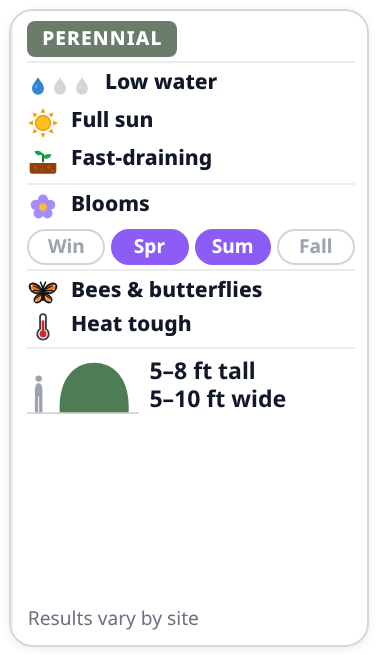
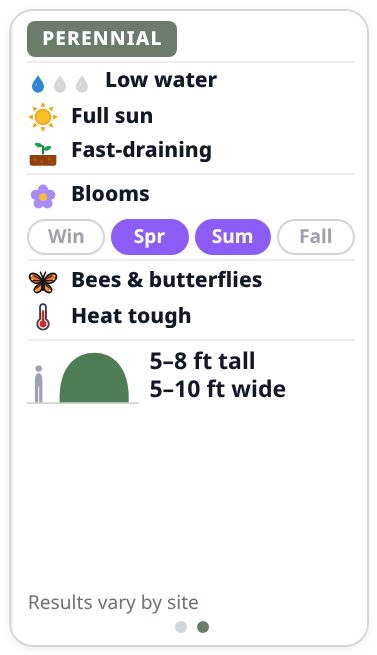
Plant basics: height-matched back layout via ResizeObserver, simple vine, small-tree/large-shrub silhouette

diff --git a/shop.js b/shop.js
@@ -168,17 +168,22 @@
   function plantShape(x, cx, base, gw, gh) {
     var G = "#4d7c55", r = gw / 2, f = x.shape || x.form || "Shrub", P = function (d) { return '<path fill="' + G + '" d="' + d + '"/>'; }, L = function (d, w) { return '<path fill="none" stroke="' + G + '" stroke-width="' + (w || 1.4) + '" stroke-linecap="round" d="' + d + '"/>'; }, top = base - gh, o = "";
     if (false) return '<rect x="' + (cx - 1.2) + '" y="' + (base - gh * .1) + '" width="2.4" height="' + (gh * .1) + '" fill="' + G + '"/>' + P("M" + cx + " " + top + "C" + (cx + r * .35) + " " + (top + gh * .3) + " " + (cx + r * .55) + " " + (base - gh * .35) + " " + (cx + r * .4) + " " + (base - gh * .1) + "H" + (cx - r * .4) + "C" + (cx - r * .55) + " " + (base - gh * .35) + " " + (cx - r * .35) + " " + (top + gh * .3) + " " + cx + " " + top + "z");
-    if (f === "Tree" || f === "Small tree") { var cw = Math.max(gw, gh * 1.5) / 2, ch = gh * .62, ctop = top, cb = ctop + ch, tk = Math.max(2.4, cw * .12);   // coast-live-oak: short trunk, branching, broad lumpy canopy
+    if (f === "Small tree" || f === "SmallTree") { var sw = Math.max(gw, gh * 1.2) / 2, sch = gh * .72, sb = top + sch;   // small tree / large shrub: 2-3 short stems, low rounded lumpy canopy
+      [-.28, 0, .28].forEach(function (k) { o += P("M" + (cx + k * sw * .25 - 1.1) + " " + base + "L" + (cx + k * sw * .7 - .9) + " " + (sb - sch * .2) + "h1.8L" + (cx + k * sw * .25 + 1.1) + " " + base + "z"); });
+      [[-.5, .55, .5, .42], [.5, .55, .5, .42], [0, .38, .6, .45], [-.2, .62, .55, .38], [.25, .62, .55, .38]].forEach(function (l) { o += '<ellipse cx="' + (cx + l[0] * sw) + '" cy="' + (top + l[1] * sch) + '" rx="' + (l[2] * sw) + '" ry="' + (l[3] * sch) + '" fill="' + G + '"/>'; });
+      return o; }
+    if (f === "Tree") { var cw = Math.max(gw, gh * 1.5) / 2, ch = gh * .62, ctop = top, cb = ctop + ch, tk = Math.max(2.4, cw * .12);   // coast-live-oak: short trunk, branching, broad lumpy canopy
       o += P("M" + (cx - tk) + " " + base + "L" + (cx - tk * .7) + " " + (cb - ch * .05) + "L" + (cx - cw * .55) + " " + (cb - ch * .25) + "L" + (cx - cw * .5) + " " + (cb - ch * .15) + "L" + (cx - tk * .2) + " " + (cb + ch * .1) + "L" + (cx + tk * .2) + " " + (cb + ch * .1) + "L" + (cx + cw * .5) + " " + (cb - ch * .15) + "L" + (cx + cw * .55) + " " + (cb - ch * .25) + "L" + (cx + tk * .7) + " " + (cb - ch * .05) + "L" + (cx + tk) + " " + base + "z");
       [[-.62, .62, .4, .38], [.62, .62, .4, .38], [-.3, .4, .45, .45], [.3, .38, .45, .45], [0, .3, .4, .42], [-.85, .72, .2, .25], [.85, .72, .2, .25], [0, .65, .7, .3]].forEach(function (l) { o += '<ellipse cx="' + (cx + l[0] * cw) + '" cy="' + (ctop + l[1] * ch) + '" rx="' + (l[2] * cw) + '" ry="' + (l[3] * ch) + '" fill="' + G + '"/>'; });
       return o; }
     if (f === "Grass") { for (var i = -4; i <= 4; i++) { var tx = cx + i * r * .26, ty = top + Math.abs(i) * gh * .1 + gh * .05; o += L("M" + (cx + i * .6) + " " + base + "Q" + (cx + i * r * .1) + " " + (base - gh * .6) + " " + tx + " " + ty, 2.2); }
       [-.45, .05, .5].forEach(function (k) { var sx = cx + k * r * .8; o += L("M" + cx + " " + base + "Q" + sx + " " + (base - gh * .5) + " " + (sx + k * 2) + " " + (top - 1), .8) + '<ellipse cx="' + (sx + k * 2) + '" cy="' + top + '" rx="1.1" ry="2.4" fill="' + G + '"/>'; });
       return P("M" + (cx - r * .3) + " " + base + "Q" + cx + " " + (base - gh * .3) + " " + (cx + r * .3) + " " + base + "z") + o; }
-    if (f === "Vine") { var vh = gh * .85, vt = base - vh, vw = Math.max(30, Math.min(gw, vh * .9)), pp = cx;   // simplified leafy vine on a post (not strictly to scale)
-      o += '<rect x="' + (pp - 1.3) + '" y="' + (vt - 2) + '" width="2.6" height="' + (vh + 2) + '" fill="#a8a29e"/><rect x="' + (pp - vw * .45) + '" y="' + (vt + vh * .12) + '" width="' + (vw * .9) + '" height="1.6" fill="#a8a29e"/>';
-      for (var q = 0; q < 7; q++) { var ly = base - vh * (q + .6) / 7.2, sx = (q % 2 ? 1 : -1), lw = vw * (.42 - q * .02); o += '<ellipse cx="' + (pp + sx * lw * .5) + '" cy="' + ly + '" rx="' + lw * .62 + '" ry="' + Math.max(2.8, vh * .11) + '" fill="' + G + '"/>'; }
-      o += P("M" + (pp - vw * .3) + " " + base + "Q" + pp + " " + (base - vh * .35) + " " + (pp + vw * .3) + " " + base + "z");
+    if (f === "Vine") { var vh = gh * .85, vt = base - vh, pp = cx, amp = Math.max(4, Math.min(gw * .25, 8));   // simple: post + one twining stem + a few leaves
+      o += '<rect x="' + (pp - 1.4) + '" y="' + vt + '" width="2.8" height="' + vh + '" rx="1" fill="#a8a29e"/>';
+      o += L("M" + pp + " " + base + "C" + (pp + amp) + " " + (base - vh * .2) + " " + (pp - amp) + " " + (base - vh * .4) + " " + pp + " " + (base - vh * .55) + "S" + (pp + amp) + " " + (base - vh * .85) + " " + (pp - 1) + " " + (vt + 1), 1.8);
+      [[.18, 1], [.42, -1], [.66, 1], [.88, -1]].forEach(function (q) { var ly = base - vh * q[0], lx = pp + q[1] * amp * .9, sz = Math.max(3, amp * .7);
+        o += P("M" + (lx - q[1] * sz * .3) + " " + ly + "Q" + (lx + q[1] * sz * .6) + " " + (ly - sz * .9) + " " + (lx + q[1] * sz * 1.4) + " " + (ly - sz * .2) + "Q" + (lx + q[1] * sz * .6) + " " + (ly + sz * .5) + " " + (lx - q[1] * sz * .3) + " " + ly + "z"); });
       return o; }
     if (f === "Succulent") { for (var j = -5; j <= 5; j++) { var ang = j / 5 * 1.3, len = gh * .62 * (1 - Math.abs(j) * .05); o += P("M" + (cx - 2.2) + " " + base + "L" + (cx + Math.sin(ang) * Math.max(len, r * .9)) + " " + (base - Math.cos(ang) * len) + "L" + (cx + 2.2) + " " + base + "z"); }
       return o + L("M" + cx + " " + (base - gh * .3) + "V" + (top + gh * .2), 2) + P("M" + (cx - 2.4) + " " + (top + gh * .3) + "Q" + cx + " " + (top - 1) + " " + (cx + 2.4) + " " + (top + gh * .3) + "z"); }
@@ -247,6 +252,8 @@
     bp.pane.addEventListener("keydown", function (e) { if (e.key === "Enter" || e.key === " " || e.key === "Escape") { e.preventDefault(); to(0); if (ph0) setTimeout(function () { ph0.focus({ preventScroll: true }); }, 350); } });
     var t = null; track.addEventListener("scroll", function () { clearTimeout(t); t = setTimeout(function () { var on = onBack(); card.classList.toggle("showing-basics", on); front.setAttribute("aria-hidden", on ? "true" : "false"); bp.pane.setAttribute("aria-hidden", on ? "false" : "true"); }, 80); }, { passive: true });
     bp.pane.setAttribute("aria-hidden", "true");
+    function fit() { var h = bp.pane.clientHeight; if (!h) return; bp.pane.classList.toggle("tall", h >= 440); bp.pane.classList.toggle("compact", h < 440); }
+    if ("ResizeObserver" in window) new ResizeObserver(fit).observe(bp.pane); else { setTimeout(fit, 0); addEventListener("resize", fit); }
     if (!peeked && card.querySelector(".add, .soon-pill")) { peeked = true; try { sessionStorage.setItem("ienn-peek", "1"); } catch (e) {}   // one gentle peek per session, first card only
       if (!(window.matchMedia && matchMedia("(prefers-reduced-motion: reduce)").matches)) setTimeout(function () { if (!card.isConnected) return; track.scrollTo({ left: 46, behavior: "smooth" }); setTimeout(function () { track.scrollTo({ left: 0, behavior: "smooth" }); }, 650); }, 1400); }
     return card;

diff --git a/shop.css b/shop.css
@@ -175,7 +175,7 @@ html.ty-open, html.ty-open body { overflow:hidden; }
 .card-track { display:flex; overflow-x:auto; scroll-snap-type:x mandatory; overscroll-behavior-x:contain; scrollbar-width:none; -webkit-overflow-scrolling:touch; height:100%; }
 .card-track::-webkit-scrollbar { display:none; }
 .pane-front { flex:0 0 100%; scroll-snap-align:start; display:flex; flex-direction:column; min-width:0; }
-.pane-basics { flex:0 0 100%; scroll-snap-align:start; position:relative; min-width:0; background:#fff; border-left:1px solid #eee; container-type:size; }
+.pane-basics { flex:0 0 100%; scroll-snap-align:start; position:relative; min-width:0; background:#fff; border-left:1px solid #eee;  }
 @media (prefers-reduced-motion:no-preference) { .card-track { scroll-behavior:smooth; } }
 .basics-in { position:absolute; inset:0; overflow-y:auto; padding:0.5rem; display:flex; flex-direction:column; gap:0.4rem; color:#111827; }
 .form-ribbon { display:inline-block; white-space:nowrap; background:var(--sage); color:#fff; font-weight:800; font-size:0.66rem; letter-spacing:.06em; text-transform:uppercase; padding:0.15rem 0.55rem; border-radius:4px; }
@@ -200,16 +200,19 @@ html.ty-open, html.ty-open body { overflow:hidden; }
 .size-art { width:72px; height:38px; flex:none; }
 .size-v { display:flex; flex-direction:column; font-size:0.74rem; color:#111827; line-height:1.2; }
 .basics-fine { margin:0; margin-top:auto; font-size:0.6rem; color:#6b7280; }
-@container (min-height:440px) {
-  .basics-in { gap:0.5rem; padding:0.65rem 0.55rem; }
-  .basics-tag { font-size:0.9rem; }
-  .fchip { min-height:34px; padding:0.25rem 0.45rem; } .fchip-t { font-size:0.82rem; }
-  .bi { width:24px; height:24px; } .water .bi { width:16px; height:22px; }
-  .sp { font-size:0.74rem; padding:0.25rem 0; }
-  .size-art { width:100px; height:54px; } .size-v { font-size:0.86rem; }
-}
+.pane-basics.tall .basics-in { gap:0.5rem; padding:0.65rem 0.55rem; }
+.pane-basics.tall .basics-tag { font-size:0.9rem; }
+.pane-basics.tall .fchip { min-height:34px; padding:0.25rem 0.45rem; }
+.pane-basics.tall .fchip-t { font-size:0.82rem; }
+.pane-basics.tall .bi { width:24px; height:24px; }
+.pane-basics.tall .water .bi { width:16px; height:22px; }
+.pane-basics.tall .sp { font-size:0.74rem; padding:0.25rem 0; }
+.pane-basics.tall .size-art { width:100px; height:54px; }
+.pane-basics.tall .size-v { font-size:0.86rem; }
 .basics-in { gap:0.3rem; } .fchip { min-height:22px; padding:0.1rem 0.35rem; } .size-v { white-space:nowrap; } .size-art { width:60px; height:34px; }
-@container (min-height:440px) { .basics-in { gap:0.5rem; } .fchip { min-height:34px; padding:0.25rem 0.45rem; } .size-art { width:90px; height:50px; } }
+.pane-basics.tall .basics-in { gap:0.5rem; }
+.pane-basics.tall .fchip { min-height:34px; padding:0.25rem 0.45rem; }
+.pane-basics.tall .size-art { width:90px; height:50px; }
 
 /* v5: seamless back (no chip bubbles), section dividers, dots, flippable photo */
 .fchip, .care .water, .care .sun, .care .soil { background:none; border:0; border-radius:0; padding:0.05rem 0; min-height:0; }
@@ -224,9 +227,16 @@ html.ty-open, html.ty-open body { overflow:hidden; }
 .ph.flippable:focus-visible, .pane-basics:focus-visible { outline:3px solid var(--sage); outline-offset:-3px; }
 .pane-basics { cursor:pointer; }
 .size-art { width:84px; height:44px; }
-@container (min-height:440px) { .fchip { min-height:30px; padding:0.1rem 0; } .care, .feats { gap:0.3rem; } .size-art { width:110px; height:58px; } }
-@container (min-height:440px) { .size-art { width:92px; height:48px; } .size-v { font-size:0.8rem; } }
-@container (max-height:439px) { .care, .seasons, .feats, .size { padding-top:0.2rem; } .basics-in { gap:0.22rem; padding:0.4rem 0.5rem; } .size-art { width:66px; height:35px; } .pane-basics .flip-dots { display:none; } .basics-tag { font-size:0.74rem; } }
+.pane-basics.tall .fchip { min-height:30px; padding:0.1rem 0; }
+.pane-basics.tall .care,.pane-basics.tall .feats { gap:0.3rem; }
+.pane-basics.tall .size-art { width:110px; height:58px; }
+.pane-basics.tall .size-art { width:92px; height:48px; }
+.pane-basics.tall .size-v { font-size:0.8rem; }
+.pane-basics.compact .care,.pane-basics.compact .seasons,.pane-basics.compact .feats,.pane-basics.compact .size { padding-top:0.2rem; }
+.pane-basics.compact .basics-in { gap:0.22rem; padding:0.4rem 0.5rem; }
+.pane-basics.compact .size-art { width:66px; height:35px; }
+.pane-basics.compact .pane-basics .flip-dots { display:none; }
+.pane-basics.compact .basics-tag { font-size:0.74rem; }
 
 /* v7: calm bloom row */
 .seasons { display:flex; flex-direction:column; gap:0.2rem; }
@@ -238,5 +248,16 @@ html.ty-open, html.ty-open body { overflow:hidden; }
 .size { gap:0.3rem; padding-right:0.35rem; min-width:0; }
 .size-art { width:64px !important; height:34px !important; flex:0 0 auto; }
 .size-v { font-size:0.72rem !important; min-width:0; }
-@container (min-height:440px) { .size-art { width:76px !important; height:40px !important; } .size-v { font-size:0.76rem !important; } }
-@container (max-height:439px) { .basics-in { gap:0.15rem; padding:0.35rem 0.45rem; } .fchip { min-height:0; padding:0; } .fchip-t { font-size:0.66rem; } .bi { width:16px; height:16px; } .water .bi { width:11px; height:15px; } .care, .feats { gap:0.1rem; } .care, .seasons, .feats, .size { padding-top:0.15rem; } .seasons .sp { font-size:0.6rem; padding:0.05rem 0; } .size-art { width:56px !important; height:30px !important; } .form-ribbon { font-size:0.6rem; padding:0.1rem 0.45rem; } }
+.pane-basics.tall .size-art { width:76px !important; height:40px !important; }
+.pane-basics.tall .size-v { font-size:0.76rem !important; }
+.pane-basics.compact .basics-in { gap:0.15rem; padding:0.35rem 0.45rem; }
+.pane-basics.compact .fchip { min-height:0; padding:0; }
+.pane-basics.compact .fchip-t { font-size:0.66rem; }
+.pane-basics.compact .bi { width:16px; height:16px; }
+.pane-basics.compact .water .bi { width:11px; height:15px; }
+.pane-basics.compact .care,.pane-basics.compact .feats { gap:0.1rem; }
+.pane-basics.compact .care,.pane-basics.compact .seasons,.pane-basics.compact .feats,.pane-basics.compact .size { padding-top:0.15rem; }
+.pane-basics.compact .seasons .sp { font-size:0.6rem; padding:0.05rem 0; }
+.pane-basics.compact .size-art { width:56px !important; height:30px !important; }
+.pane-basics.compact .form-ribbon { font-size:0.6rem; padding:0.1rem 0.45rem; }
+.pane-basics.tall .basics-in { justify-content:space-evenly; } .pane-basics.tall .basics-fine { margin-top:0; }

diff --git a/data/plant-basics.js b/data/plant-basics.js
@@ -29,7 +29,7 @@ var IENN_BASICS = {
     desc:"Monkeyflowers bloom heavily in spring with tubular flowers hummingbirds visit. Afternoon shade and little summer water keep them happy." },
   Penstemon: { water:1, sun:["full"], soil:"Fast-draining", bloom:["Sp","Su"], wild:["pollinators","hummingbirds","containers"], h:[2,4], w:[1,3], ie:true, genusLevel:true,
     desc:"Upright spikes of tubular flowers that hummingbirds find fast. Needs good drainage; avoid overwatering." },
-  Rhus: { water:1, sun:["full","part"], soil:"Adaptable", bloom:["W","Sp"], wild:["pollinators","birds"], h:[6,10], w:[6,10], ie:true,
+  Rhus: { shape:"SmallTree", water:1, sun:["full","part"], soil:"Adaptable", bloom:["W","Sp"], wild:["pollinators","birds"], h:[6,10], w:[6,10], ie:true,
     desc:"A sturdy evergreen shrub with glossy leaves and small pink-white flowers. Useful as a hedge or screen once established." },
   Achillea: { water:2, sun:["full","part"], soil:"Adaptable", bloom:["Sp","Su"], wild:["pollinators","fragrant","containers"], h:[1,3], w:[1,3], ie:true,
     desc:"Feathery, aromatic leaves with flat clusters of small flowers. Spreads into a soft patch and can even be mowed as a lawn alternative." },
@@ -45,7 +45,7 @@ var IENN_BASICS = {
     desc:"Bright red-orange tubular flowers in late summer and fall, just when hummingbirds need them most. Cut back in winter to keep it tidy." },
   Hesperocyparis: { water:1, sun:["full"], soil:"Adaptable", bloom:[], wild:["birds","fragrant"], h:[20,40], w:[10,20], ie:true,
     desc:"A drought-tolerant evergreen conifer with blue-gray, aromatic foliage. Makes a strong vertical accent or windbreak." },
-  Dendromecon: { water:1, sun:["full"], soil:"Fast-draining", bloom:["W","Sp"], wild:["pollinators"], h:[4,8], w:[4,8], ie:true,
+  Dendromecon: { shape:"SmallTree", water:1, sun:["full"], soil:"Fast-draining", bloom:["W","Sp"], wild:["pollinators"], h:[4,8], w:[4,8], ie:true,
     desc:"A chaparral shrub with bright yellow poppy flowers. Needs excellent drainage and dislikes summer water." },
   Heteromeles: { water:1, sun:["full","part"], soil:"Adaptable", bloom:["Su"], wild:["pollinators","birds"], h:[8,15], w:[6,12], ie:true,
     desc:"An evergreen shrub with white summer flowers and bright red winter berries that birds love. A classic native hedge or small tree." }
